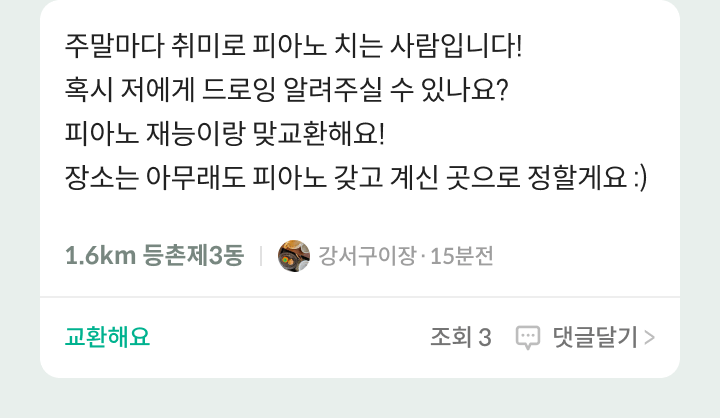
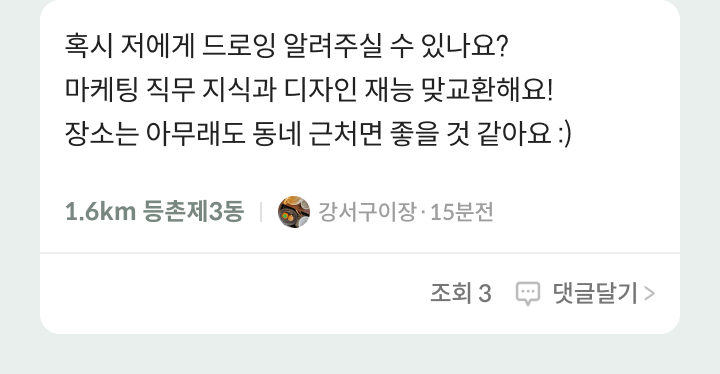
feat: 220407 커뮤니티 카테고리 변경

diff --git a/index.html b/index.html
@@ -150,36 +150,21 @@
                     <img class="intro-find__img" src="img/img_mockup4.png" alt="커뮤니티 리스트 예시입니다">
                     <div class="intro-find__on-img">
                         <div class="intro-find__menu">
-                            <div class="intro-find__menu__inner">
-                                <label class="intro-find__btn2 type1"><input type="checkbox" checked><span class="blind">홈</span></label>
-                                <label class="intro-find__btn2 type2"><input type="checkbox"><span class="blind">알려주세요</span></label>
-                                <label class="intro-find__btn2 type3"><input type="checkbox"><span class="blind">같이해요</span></label>
-                                <label class="intro-find__btn2 type4"><input type="checkbox"><span class="blind">교환해요</span></label>
-                                <label class="intro-find__btn2 type5"><input type="checkbox"><span class="blind">애기해요</span></label>
-                            </div>
+                            <label class="intro-find__btn2 type1"><input type="checkbox" checked><span class="blind">배움모임</span></label>
+                            <label class="intro-find__btn2 type2"><input type="checkbox"><span class="blind">배움교환</span></label>
                         </div>
                         <div class="intro-find__sort on"></div><!--'on' / '' : 최신 순 / 가까운 순-->
                         <div class="intro-find__scroll">
-                            <!--알려주세요 / 가까운 순-->
-                            <img src="img/moc_commu_data01.png" alt="컴퓨터 포맷 방법, 제 컴퓨터로 직접 알려봐주실 수 있을까요?">
-                            <img src="img/moc_commu_data02.png" alt="아이가 유튜버가 되고 싶어 하는데, 상담해주실 분 계신가요?">
-                            <img src="img/moc_commu_data03.png" alt="급) 회사 워크샵 반응 좋았던 단체게임 알려주실 선배님 계신가요?">
-                            <img src="img/moc_commu_data04.png" alt="블로그 마케터가 되고 싶어요~">
-                            <!--교환해요 / 가까운 순-->
+                            <!--배움교환 / 가까운 순-->
                             <img src="img/moc_commu_data05.png" alt="영어(you)랑 중국어(我) 교환하실분!!">
                             <img src="img/moc_commu_data06.png" alt="Blender 다룰 줄 아시는 분~~? Figma 알려드릴게용">
                             <img src="img/moc_commu_data07.png" alt="드로잉 알려주실 수 있나요? 피아노 재능이랑 맞교환해요!">
                             <img src="img/moc_commu_data08.png" alt="재능교환하실 분? 3년차인 프론트엔드 개발자입니다">
-                            <!--같이해요 / 최신 순-->
+                            <!--배움모임 / 최신 순-->
                             <img src="img/moc_commu_data09.png" alt="연습실 빌려서 KPOP 뿌실사람!!">
                             <img src="img/moc_commu_data10.png" alt="이번 주 금요에 보드게임같이 하실 분 계신가용?!!">
                             <img src="img/moc_commu_data11.png" alt="매주 수요일마다 방화역 하늘담은카페에서 스터디하실 분 계신가요?">
                             <img src="img/moc_commu_data12.png" alt="동네 공원에서 테니스 같이 치실분 있으신가요?">
-                            <!--얘기해요 / 최신 순-->
-                            <img src="img/moc_commu_data13.png" alt="코시국 취준생들.. 힘냅시다..">
-                            <img src="img/moc_commu_data14.png" alt="동네 카페에서 콘텐츠 스터디 하실래용....? 시간은 맞춰봐요~">
-                            <img src="img/moc_commu_data15.png" alt="밤마다 운동 인증하실 분?">
-                            <img src="img/moc_commu_data16.png" alt="타일을 업으로 하고 계신 분 계신가요? 진지하게 조언 좀 부탁드리겠습니다.">
                         </div>
                     </div>
                 </div>

diff --git a/css/main.css b/css/main.css
@@ -2559,7 +2559,7 @@ textarea {
   transform: translate(-22.2222222222%, -2.1276595745%);
 }
 .intro-find.community .intro-find__scroll {
-  top: 25.1282051282%;
+  top: 25.8974358974%;
 }
 .intro-find.community .intro-find__cate-img {
   margin-bottom: 1rem;
@@ -2568,7 +2568,7 @@ textarea {
 .intro-find.community .intro-find__cate-img::before {
   content: "";
   display: block;
-  padding-top: 111.25%;
+  padding-top: 53.75%;
   width: 100%;
   background: url("../img/img_mockup4_category.png") no-repeat;
   background-size: 100% auto;
@@ -2578,21 +2578,13 @@ textarea {
   top: 11.7948717949%;
   left: 2.1052631579%;
   right: 3.1578947368%;
-  height: 6.1538461538%;
+  height: 6.9230769231%;
   background: white;
-  overflow: auto;
-}
-.intro-find.community .intro-find__menu__inner {
-  display: flex;
-  padding: 0 1.3888888889%;
-  width: 120.2777777778%;
-  height: 100%;
-  overflow: hidden;
 }
 .intro-find.community .intro-find__btn2 {
   position: absolute;
-  width: 24.4444444444%;
-  height: 100%;
+  width: 24.1666666667%;
+  height: 74.0740740741%;
 }
 .intro-find.community .intro-find__btn2 input, .intro-find.community .intro-find__btn2 .datepicker {
   z-index: 1;
@@ -2602,57 +2594,29 @@ textarea {
   background-image: url("../img/img_mockup4_menu.png");
   background-repeat: no-repeat;
   background-position: center top;
-  background-size: auto 1000%;
+  background-size: auto 400%;
 }
 .intro-find.community .intro-find__btn2 input:focus, .intro-find.community .intro-find__btn2 .datepicker:focus {
   border: 0;
 }
 .intro-find.community .intro-find__btn2.type1 {
-  width: 18.3333333333%;
+  left: 5.5555555556%;
 }
 .intro-find.community .intro-find__btn2.type1 input:checked, .intro-find.community .intro-find__btn2.type1 .datepicker:checked {
-  background-position: center 11.111111%;
-}
-.intro-find.community .intro-find__btn2.type2 {
-  left: 18.3333333333%;
-  width: 28.6111111111%;
-}
-.intro-find.community .intro-find__btn2.type2 input, .intro-find.community .intro-find__btn2.type2 .datepicker {
-  background-position: center 22.222222%;
-}
-.intro-find.community .intro-find__btn2.type2 input:checked, .intro-find.community .intro-find__btn2.type2 .datepicker:checked {
   background-position: center 33.333333%;
 }
-.intro-find.community .intro-find__btn2.type3 {
-  left: 46.9444444444%;
+.intro-find.community .intro-find__btn2.type2 {
+  left: 32.5%;
 }
-.intro-find.community .intro-find__btn2.type3 input, .intro-find.community .intro-find__btn2.type3 .datepicker {
-  background-position: center 44.444444%;
-}
-.intro-find.community .intro-find__btn2.type3 input:checked, .intro-find.community .intro-find__btn2.type3 .datepicker:checked {
-  background-position: center 55.555555%;
-}
-.intro-find.community .intro-find__btn2.type4 {
-  left: 71.3888888889%;
-}
-.intro-find.community .intro-find__btn2.type4 input, .intro-find.community .intro-find__btn2.type4 .datepicker {
+.intro-find.community .intro-find__btn2.type2 input, .intro-find.community .intro-find__btn2.type2 .datepicker {
   background-position: center 66.666666%;
 }
-.intro-find.community .intro-find__btn2.type4 input:checked, .intro-find.community .intro-find__btn2.type4 .datepicker:checked {
-  background-position: center 77.777777%;
-}
-.intro-find.community .intro-find__btn2.type5 {
-  left: 95.8333333333%;
-}
-.intro-find.community .intro-find__btn2.type5 input, .intro-find.community .intro-find__btn2.type5 .datepicker {
-  background-position: center 88.88888%;
-}
-.intro-find.community .intro-find__btn2.type5 input:checked, .intro-find.community .intro-find__btn2.type5 .datepicker:checked {
+.intro-find.community .intro-find__btn2.type2 input:checked, .intro-find.community .intro-find__btn2.type2 .datepicker:checked {
   background-position: center 99.999999%;
 }
 .intro-find.community .intro-find__sort {
   position: absolute;
-  top: 17.9487179487%;
+  top: 18.7179487179%;
   left: 2.1052631579%;
   right: 3.1578947368%;
   height: 7.1794871795%;

diff --git a/css/_layout.scss b/css/_layout.scss
@@ -1514,7 +1514,7 @@
       }
 
       &__scroll {
-        top: 196/780*100%;
+        top: 202/780*100%;
       }
 
       &__cate-img {
@@ -1524,7 +1524,7 @@
         &::before {
           content: "";
           display: block;
-          padding-top: 111.25%;
+          padding-top: 53.75%;
           width: 100%;
           background: url("../img/img_mockup4_category.png") no-repeat;
           background-size: 100% auto;
@@ -1533,23 +1533,14 @@
 
       &__menu {
         @include position(absolute, 92/780*100%, 8/380*100%, 12/380*100%);
-        height: 48/780*100%;
+        height: 54/780*100%;
         background: white;
-        overflow: auto;
-
-        &__inner {
-          display: flex;
-          padding: 0 5/360*100%;
-          width: 433/360*100%;
-          height: 100%;
-          overflow: hidden;
-        }
       }
 
       &__btn2 {
         position: absolute;
-        width: 88/360*100%;
-        height: 100%;
+        width: 87/360*100%;
+        height: 40/54*100%;
 
         input {
           z-index: 1;
@@ -1559,7 +1550,7 @@
           background-image: url("../img/img_mockup4_menu.png");
           background-repeat: no-repeat;
           background-position: center top;
-          background-size: auto 1000%;
+          background-size: auto 400%;
 
           &:focus {
             border: 0;
@@ -1567,55 +1558,17 @@
         }
 
         &.type1 {
-          width: 66/360*100%;
-
+          left: 20/360*100%;
           input:checked {
-            background-position: center 11.111111%;
+            background-position: center 33.333333%;
           }
         }
 
         &.type2 {
-          left: 66/360*100%;
-          width: 103/360*100%;
-
-          input {
-            background-position: center 22.222222%;
-
-            &:checked {
-              background-position: center 33.333333%;
-            }
-          }
-        }
-
-        &.type3 {
-          left: (66 + 103)/360*100%;
-
-          input {
-            background-position: center 44.444444%;
-
-            &:checked {
-              background-position: center 55.555555%;
-            }
-          }
-        }
-
-        &.type4 {
-          left: (66 + 103 + 88)/360*100%;
+          left: 117/360*100%;
 
           input {
             background-position: center 66.666666%;
-
-            &:checked {
-              background-position: center 77.777777%;
-            }
-          }
-        }
-
-        &.type5 {
-          left: (66 + 103 + 88 + 88)/360*100%;
-
-          input {
-            background-position: center 88.88888%;
 
             &:checked {
               background-position: center 99.999999%;
@@ -1625,7 +1578,7 @@
       }
 
       &__sort {
-        @include position(absolute, 140/780*100%, 8/380*100%, 12/380*100%);
+        @include position(absolute, 146/780*100%, 8/380*100%, 12/380*100%);
         height: 56/780*100%;
         background: url("../img/img_mockup4_sort.png") no-repeat;
         background-size: 100% auto;
